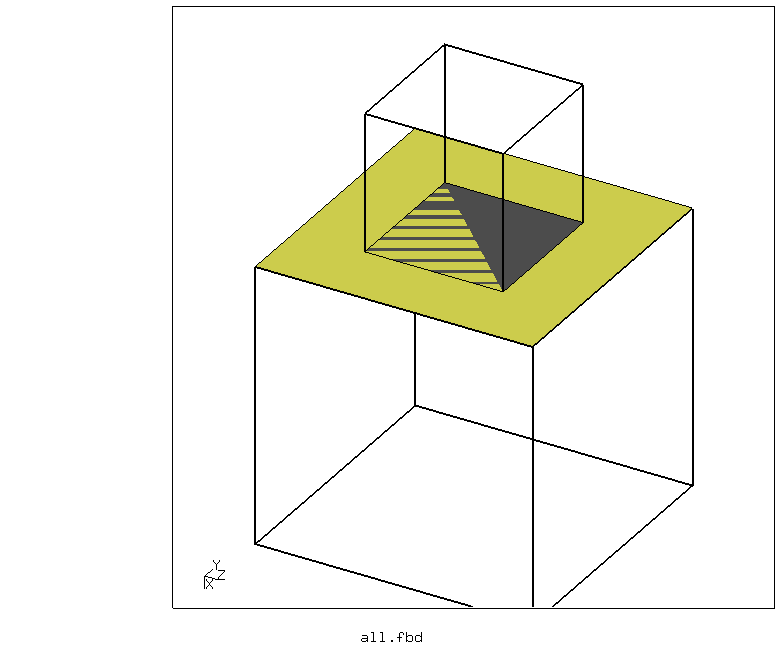
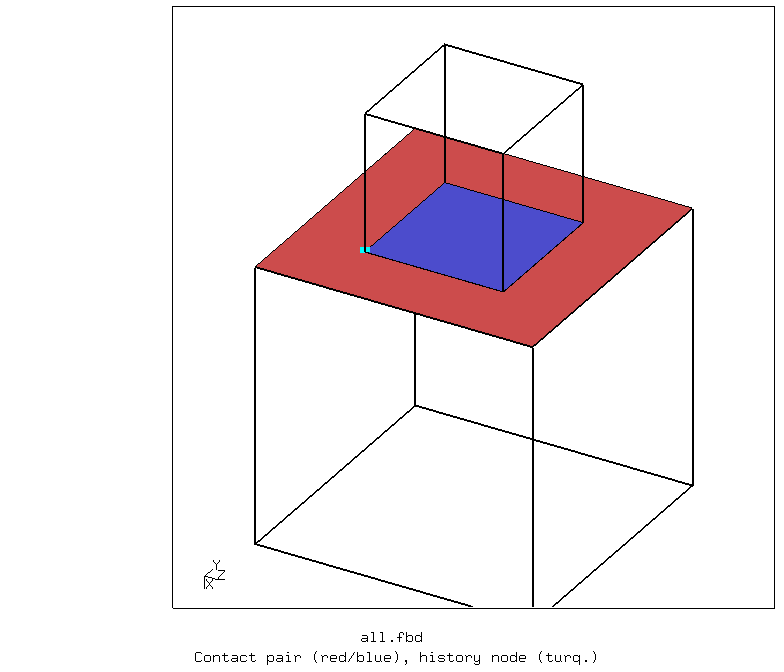
test with cgx 2.13

diff --git a/Contact/Penalty/README.md b/Contact/Penalty/README.md
@@ -1,5 +1,5 @@
 # Basic Tests of Penalty Contact
-Tested with CGX/CCX 2.12
+Tested with CGX 2.13 / CCX 2.12
 
 + Completely displacement controlled model (no dofs)
 + Objective: extract pressure-penetration characteristic for various contact options
@@ -27,6 +27,11 @@ scaled and re-positioned.
 Two contact surfaces are defined.
 
 Each cube is meshed with a single element.
+
+Parameter | Value | Description
+:--       | :--   | :---
+`le`      | 20    | Edge length of the cube in mm
+`off`     | 5     | Offset of the smaller cube in mm
 
 <img src="contact.png" title="Pressure-penetration characteristic" width=400>
 
